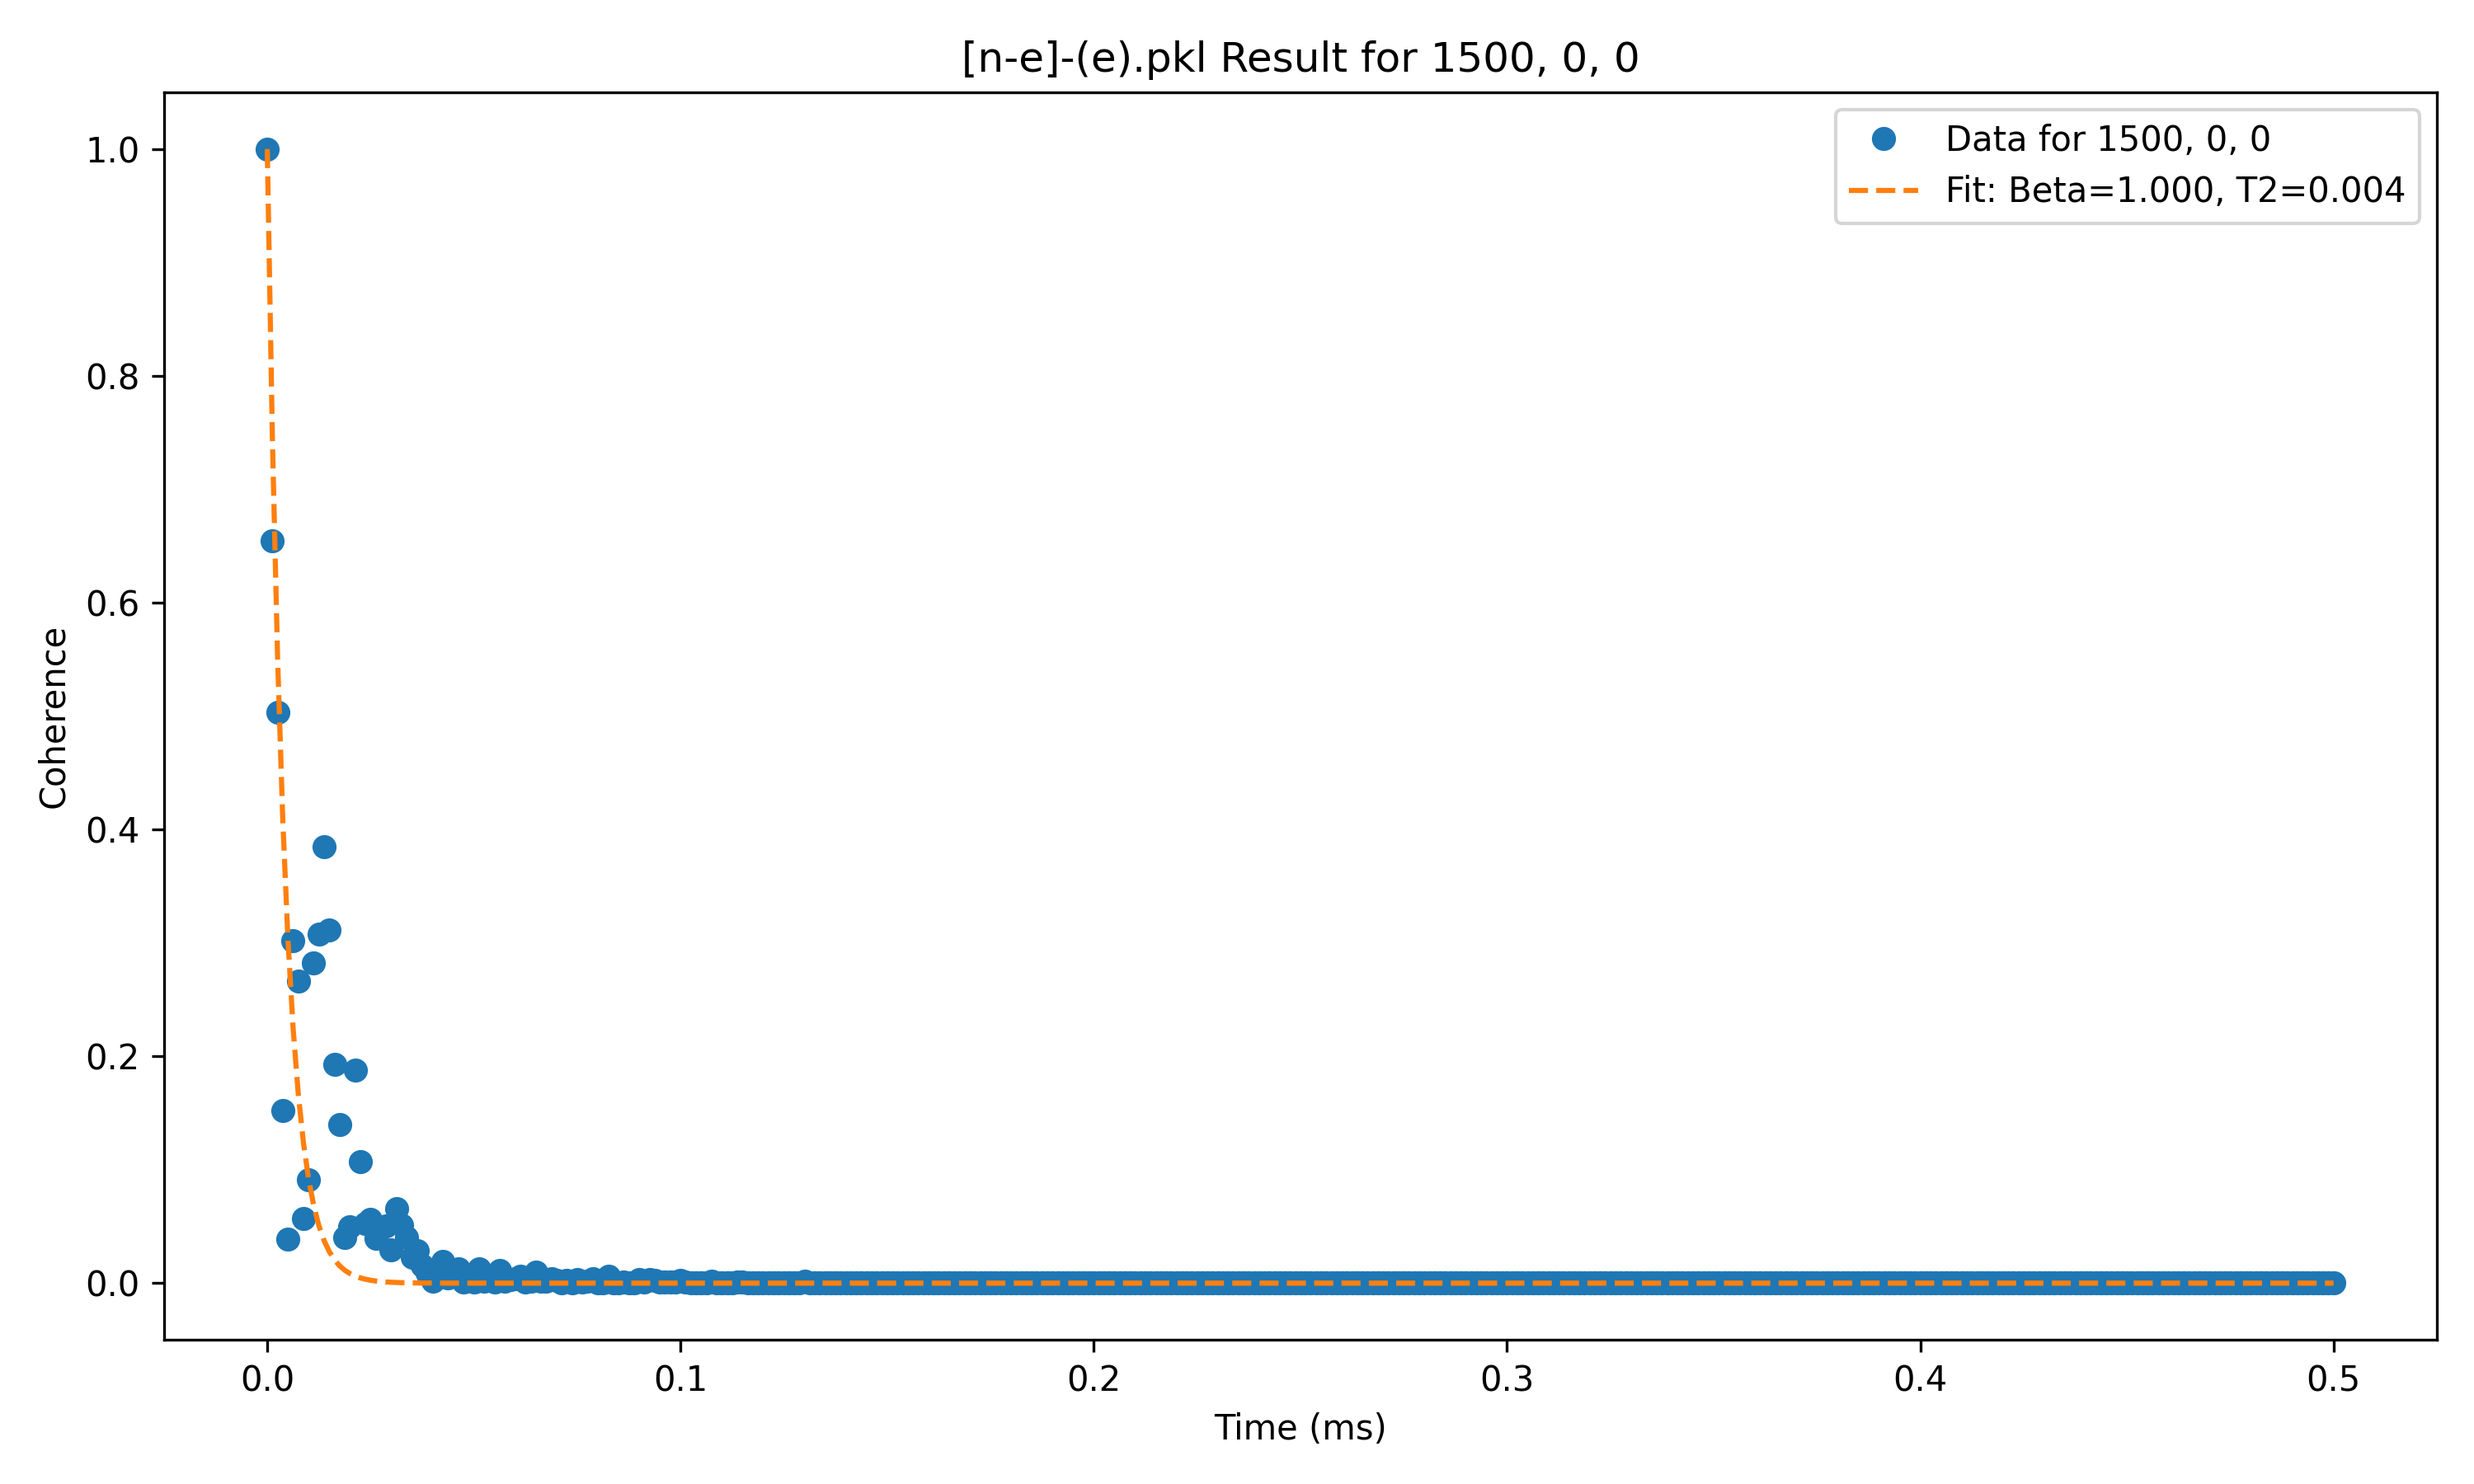
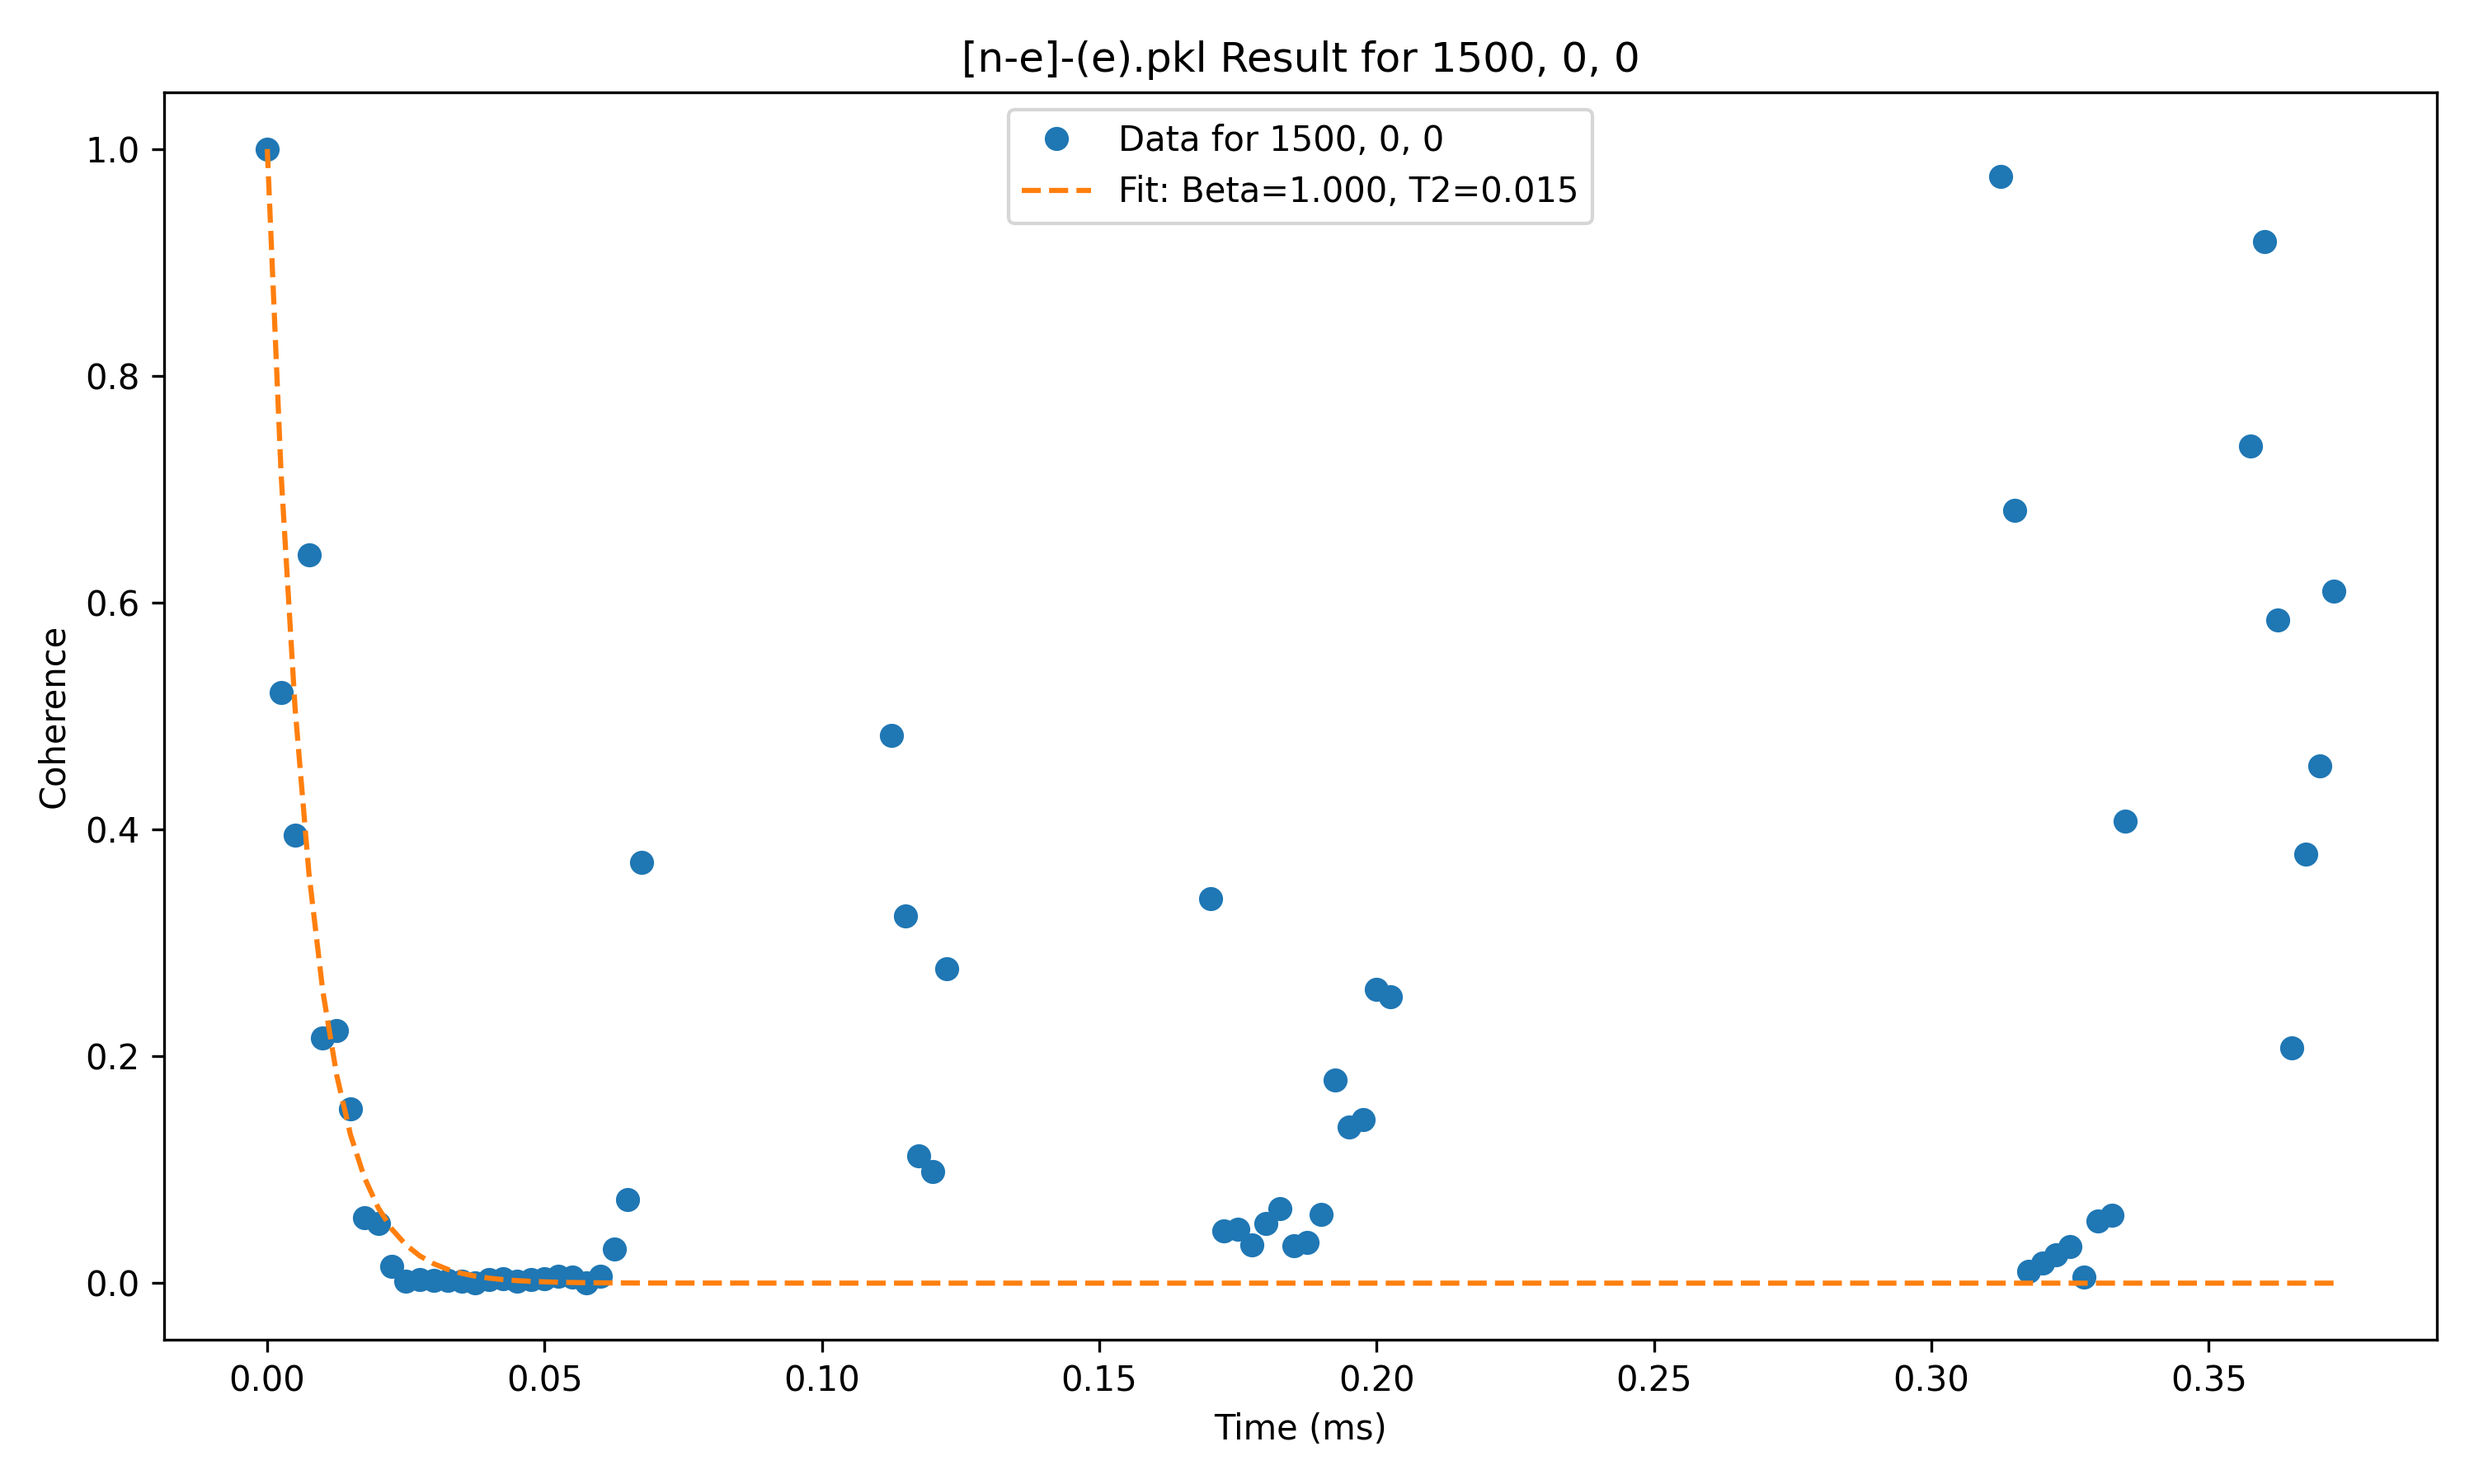
Promising lead here. Disregard order3, focus on order2, increase nbstates, gcce Pulses changed to z, 2pi/3, timespace/2 Note that fit func; 2*time/T2 T2 vs B is promising; first few values invalid because not enough points.

diff --git a/VOTPP folder/VOTPP_[n-e]-(e).py b/VOTPP folder/VOTPP_[n-e]-(e).py
@@ -119,10 +119,10 @@ def runner(concentration_value, changing_variable, variable_values, bath_paramet
 #####################################################################
 
 # concentration_list = [0, 0.02, 0.05, 0.1, 0.2, 0.5]
-# concentration_list = [0.02, 0.05,]
-concentration_list = [0.99, 0.9, 0.8, 0.7, 0.6, 0.5, 0.4, 0.3, 0.2, 0.1, 0.05, 0.02]
-# r_bath_conc_list = [20, 20, 20, 20, 30, 30, 30, 30, 40, 40, 40, 40]
-r_bath_conc_list = [20, 20, 20, 20, 20, 20, 20, 20, 20, 20, 20, 20]
+concentration_list = [0.02,]
+# concentration_list = [0.99, 0.9, 0.8, 0.7, 0.6, 0.5, 0.4, 0.3, 0.2, 0.1, 0.05, 0.02]
+# # r_bath_conc_list = [20, 20, 20, 20, 30, 30, 30, 30, 40, 40, 40, 40]
+# r_bath_conc_list = [20, 20, 20, 20, 20, 20, 20, 20, 20, 20, 20, 20]
 order_list = [1, 2, 3] 
 # r_bath_list = [40, 80, 160, 220]
 # r_dipole_list = [20, 40, 60, 100, 140, 180]
@@ -154,25 +154,25 @@ nbstates_list = [128,]
 # ])
 
 # Define the timespace
-timespace_absolute = np.linspace(0, 0.5, 401)
+timespace_absolute = np.linspace(0, 0.5, 201)
 # Create a an array with the same shape as timespace, but with all values set to 0, except for the final value, which is set to 0.25
 timespace_absolute2 = np.zeros_like(timespace_absolute)
 timespace_absolute2[-1] = 0.25
 
 # pulse_central = pc.Pulse(axis='z', angle='2*pi/3', delay=None,)  # 120° pulse around x-axis applied to central spin
-pulse_bath = pc.Pulse(axis='z', angle='pi/2', delay=0, 
-                      bath_names=('1H', '2H',
-                                  '13C',
-                                  '14N', '15N',
-                                  '50V', '51V',
-                                  )) # 120° pulse around x-axis applied to bath spins
+pulse_bath = pc.Pulse(axis='z', angle='2*pi/3', delay=timespace_absolute/2,)
+                    #   bath_names=('1H', '2H',
+                    #               '13C',
+                    #               '14N', '15N',
+                    #               '50V', '51V',
+                    #               )) # 120° pulse around x-axis applied to bath spins
 
-pulse_bath2 = pc.Pulse(axis='z', angle='pi', delay=timespace_absolute,
-                      bath_names=('1H', '2H',
-                                  '13C',
-                                  '14N', '15N',
-                                  '50V', '51V',
-                                  )) # 120° pulse around x-axis applied to bath spins
+pulse_bath2 = pc.Pulse(axis='z', angle='2*pi/3', delay=timespace_absolute/2,)
+                    #   bath_names=('1H', '2H',
+                    #               '13C',
+                    #               '14N', '15N',
+                    #               '50V', '51V',
+                    #               )) # 120° pulse around x-axis applied to bath spins
 
 # Define the sequence
 hahn_echo_sequence = pc.Sequence([
@@ -195,28 +195,28 @@ default_calc_parameters = {
     'timespace': timespace_absolute, # 7e-2
     'method': 'gcce',
     'pulses': hahn_echo_sequence,
-    'nbstates': 20, #!
+    'nbstates': 200, #!
     'quantity': 'coherence',
     'parallel': True,
     'parallel_states': True,
 }
 
 default_bath_parameters = {
-    'concentration': 0.8, #!
+    'concentration': 0.02, #!
     'cell_size': 1000, #!
     'seed': 8000
 }
 
 default_simulator_parameters = { ########## These should be greater when simulating with HPC
-    'order': 3, # 3
-    'r_bath': 50, # 80
-    'r_dipole': 50, # 50
+    'order': 2, # 3
+    'r_bath': 120, # 80
+    'r_dipole': 70, # 50
     'magnetic_field': [3000, 0, 0], # Magnetic field in Gauss
     'pulses': hahn_echo_sequence,
 }
 
-magnetic_field_list = [[3000,0,0]]
-# magnetic_field_list = [[500, 0, 0,], [800, 0, 0,], [1200, 0, 0,], [1500, 0, 0,], [2000, 0, 0,], [3000, 0, 0,]]
+# magnetic_field_list = [[3000,0,0]]
+magnetic_field_list = [[500, 0, 0,], [800, 0, 0,], [1200, 0, 0,], [1500, 0, 0,], [2000, 0, 0,], [3000, 0, 0,]]
 # magnetic_field_list = [[200,0,0], [400,0,0], [600,0,0], [800,0,0], [1000,0,0], [1200,0,0], [1400,0,0], [1600,0,0], [1800,0,0], [2000,0,0], [2200,0,0], [2400,0,0], [2600,0,0], [2800,0,0], [3000,0,0]]
 #####################################################################
 # Set up runner and run the simulation
@@ -252,23 +252,23 @@ magnetic_field_list = [[3000,0,0]]
 # seed_list = [8000, 9000, 10000, 11000,]
 seed_list = [8000,]
 magnetic_results = {}
-for idx, seed in enumerate(concentration_list):
+for idx, seed in enumerate(seed_list):
     # Change the value of the seed in the default parameters
-    default_bath_parameters['seed'] = 8000 # !!!!!!!!!!!!!!!!!!!!!!!!!!!!!!!!!!!!!!!!!!!!!!!!!!!!!!!!!!!!!!!!!!!!!!
+    default_bath_parameters['seed'] = seed # !!!!!!!!!!!!!!!!!!!!!!!!!!!!!!!!!!!!!!!!!!!!!!!!!!!!!!!!!!!!!!!!!!!!!!
     if rank == 0:
-        print("Seed: {}".format(8000)) #!!!!!!!!!!!!!!!!!!!!!!!!!!!!!!!!!!!!!!!!!!!!!!!!!!!!!!!!!!!!!!!!!!!!!!
+        print("Seed: {}".format(seed)) #!!!!!!!!!!!!!!!!!!!!!!!!!!!!!!!!!!!!!!!!!!!!!!!!!!!!!!!!!!!!!!!!!!!!!!
 
         # Start timer
         start = time.time()
 
-    # Change the value of the r_bath in the default parameters
-    default_simulator_parameters['r_bath'] = r_bath_conc_list[idx]
+    # # Change the value of the r_bath in the default parameters
+    # default_simulator_parameters['r_bath'] = r_bath_conc_list[idx]
 
 
 
     magnetic_results[seed] = runner(
-                        # concentration_value=default_bath_parameters['concentration'],
-                        concentration_value=seed, # !!!!!!!!!!!!!!!!!!!!!!!!!!!!!!!!!!!!!!!!!!!!!!!!!!!!!!!!!!!!!!!!!!!!!!
+                        concentration_value=default_bath_parameters['concentration'],
+                        # concentration_value=seed, # !!!!!!!!!!!!!!!!!!!!!!!!!!!!!!!!!!!!!!!!!!!!!!!!!!!!!!!!!!!!!!!!!!!!!!
                         changing_variable='magnetic_field', variable_values=magnetic_field_list,
                         num_spins=2, #spin_type='nuclear',
                         alpha = 4, #

diff --git a/VOTPP folder/VOTPP_class.py b/VOTPP folder/VOTPP_class.py
@@ -138,6 +138,7 @@ class VOTPP_class:
             #set          spin | gyro | quadrupole 
             spin_types = [
                 '51V',  1/2, -17608.59705
+                # '51V',  1/2, np.asarray(self.get_electron_gyro(), dtype=np.complex128)
                 # ('50V',   7/2,    7.05,       -350), # not added for consistency between tests
                 ]   #electronic bath
             atoms.add_type(*spin_types)
@@ -313,7 +314,8 @@ class VOTPP_class:
         tensor_converted_by_factor = [i * 8794.10005384623 for i in tensor]
 
         # Reshape the tensor to a 3x3 matrix
-        return np.array(tensor_converted_by_factor).reshape(3, 3)
+        converted_to_array = np.array(tensor_converted_by_factor).reshape(3, 3)
+        return converted_to_array
         
     def get_nuclear_gyro(self):
         const = -7.05
@@ -321,12 +323,12 @@ class VOTPP_class:
         # Create a 3x3 matrix filled with the constant
         return np.full((3, 3), const)
 
-    def setup_simulator(self, order, r_bath, r_dipole, magnetic_field):
-        calc = pc.Simulator(spin=self.cen, bath=self.atoms, order=order, r_bath=r_bath, r_dipole=r_dipole, magnetic_field=magnetic_field)
+    def setup_simulator(self, order, r_bath, r_dipole, magnetic_field, pulses):
+        calc = pc.Simulator(spin=self.cen, bath=self.atoms, order=order, r_bath=r_bath, r_dipole=r_dipole, magnetic_field=magnetic_field, pulses=pulses)
         return calc
 
-    def run_calculation(self, calc, timespace, method, pulses, nb_states, quantity, parallel, parallel_states):
-        l = calc.compute(timespace=timespace, method=method, pulses=pulses, nbstates=nb_states, quantity=quantity, parallel=parallel, parallel_states=parallel_states)
+    def run_calculation(self, calc, timespace, method, nb_states, pulses, quantity, parallel, parallel_states):
+        l = calc.compute(timespace=timespace, method=method, nbstates=nb_states, pulses=pulses, quantity=quantity, parallel=parallel, parallel_states=parallel_states)
         l_real = l.real
         l_abs = np.abs(l)
         return l_real

diff --git a/VOTPP folder/VOTPP_T2_vs_magnetic_field.py b/VOTPP folder/VOTPP_T2_vs_magnetic_field.py
@@ -108,6 +108,7 @@ def plot_T2_vs_field(pickle_filename, data_range=None):
     plt.title("T2 vs Numerical Key")
     plt.xlabel("Numerical Key")
     plt.ylabel(r"$T_2$ ($\mu$s)")
+    plt.ylim(bottom=0)
     plt.grid(True)
     plt.tight_layout()
     
